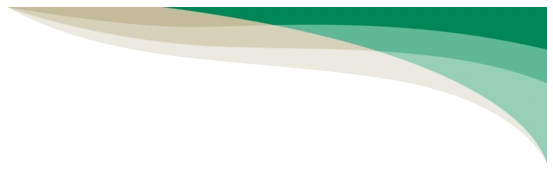
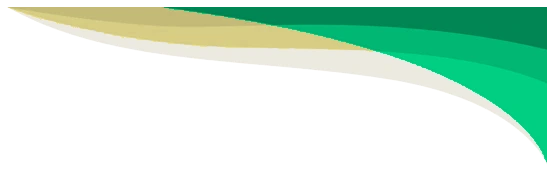
Recolor the top decorative swoosh + fix pillar cards touching their edges
- intro-topright-swoosh.webp and top-left-identity-mark-color.webp
  (the wave graphic shown at the top of every slide) still had mixed
  teal/mint/tan tones from the original logo extraction, same issue
  as the hero illustration. Recolored both the same way, and added
  the same ?v=2 cache-busting since they're served with a one-year
  immutable cache-control header.
- Pillar cards on emergency intro slides: widened (86px/94px ->
  98px/100px) and gave the row more width budget, increased side
  padding, and shrank the 4-pillar title/detail font a notch --
  Montserrat Arabic's wider glyphs were pushing long chapter titles
  right up against the card border.

Changed region(s): [[0.0, 0.0294, 1.0, 0.9412]]

diff --git a/src/components/player/SlideStage.tsx b/src/components/player/SlideStage.tsx
@@ -1367,7 +1367,7 @@ function IntroMotionScene({
   const heroRightPct = 6;
   const heroWidthPct = 26;
   const heroCenterFromRight = heroRightPct + heroWidthPct / 2;
-  const pillarRowWidthPct = pillars.length > 3 ? 34 : 30;
+  const pillarRowWidthPct = pillars.length > 3 ? 38 : 30;
   const pillarRowRightPct = heroCenterFromRight - pillarRowWidthPct / 2;
 
   return (
@@ -1398,12 +1398,12 @@ function IntroMotionScene({
         {pillars.map((pillar, index) => {
           const shown = index < visiblePillars;
           const active = started && !narrationComplete && index === activeIndex;
-          const cardWidth = pillars.length > 3 ? 'w-[86px]' : 'w-[94px]';
+          const cardWidth = pillars.length > 3 ? 'w-[98px]' : 'w-[100px]';
           const visualOrder = isEmergencyCourse ? index : index < 3 ? [1, 2, 0][index] : index;
           return (
             <div
               key={`intro-label-${pillar.label}`}
-              className={`${cardWidth} shrink-0 rounded-2xl border px-2.5 py-3 text-center shadow-sm backdrop-blur-md transition-all duration-[900ms] ease-out ${
+              className={`${cardWidth} shrink-0 rounded-2xl border px-3 py-3 text-center shadow-sm backdrop-blur-md transition-all duration-[900ms] ease-out ${
                 shown ? 'translate-y-0 scale-100 opacity-100' : 'pointer-events-none translate-y-5 scale-95 opacity-0'
               } ${
                 active
@@ -1419,8 +1419,8 @@ function IntroMotionScene({
               <span className="mx-auto mb-1.5 grid h-9 w-9 place-items-center rounded-xl bg-white/88 p-1 shadow-sm">
                 <CourseGlyph kind={courseGlyphKind(`${pillar.label} ${pillar.detail}`)} compact />
               </span>
-              <p className="text-[14px] font-black leading-tight">{pillar.label}</p>
-              <p className={`mt-1 text-[11px] font-extrabold leading-snug ${active ? 'text-green-50' : 'text-ink'}`}>{pillar.detail}</p>
+              <p className={`${pillars.length > 3 ? 'text-[12px]' : 'text-[14px]'} font-black leading-tight`}>{pillar.label}</p>
+              <p className={`mt-1 ${pillars.length > 3 ? 'text-[10px]' : 'text-[11px]'} font-extrabold leading-snug ${active ? 'text-green-50' : 'text-ink'}`}>{pillar.detail}</p>
             </div>
           );
         })}

diff --git a/src/components/player/SlideTemplateFrame.tsx b/src/components/player/SlideTemplateFrame.tsx
@@ -21,7 +21,7 @@ export function SlideTemplateFrame({ variant = 'default' }: { variant?: 'default
             draggable={false}
           />
           <img
-            src="/template-assets/intro-topright-swoosh.webp"
+            src="/template-assets/intro-topright-swoosh.webp?v=2"
             alt=""
             className="absolute right-0 top-0 h-[135px] w-[440px] object-contain object-right-top"
             loading="eager"
@@ -32,7 +32,7 @@ export function SlideTemplateFrame({ variant = 'default' }: { variant?: 'default
         </>
       ) : (
         <img
-          src="/template-assets/top-left-identity-mark-color.webp"
+          src="/template-assets/top-left-identity-mark-color.webp?v=2"
           alt=""
           className="absolute left-0 top-0 h-[135px] w-[440px] object-contain object-left-top opacity-100"
           loading="eager"
